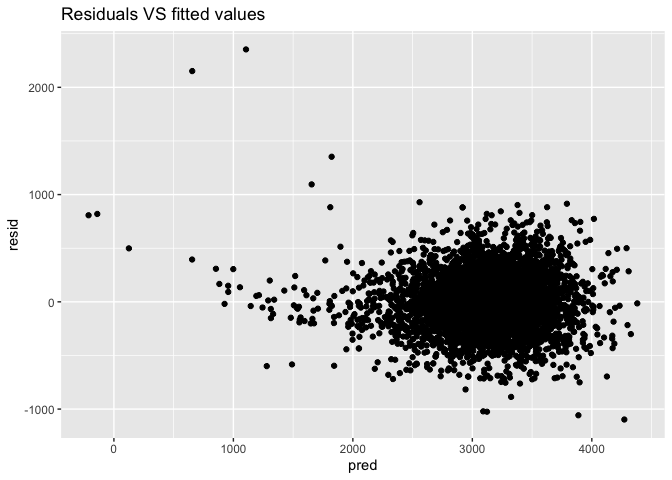
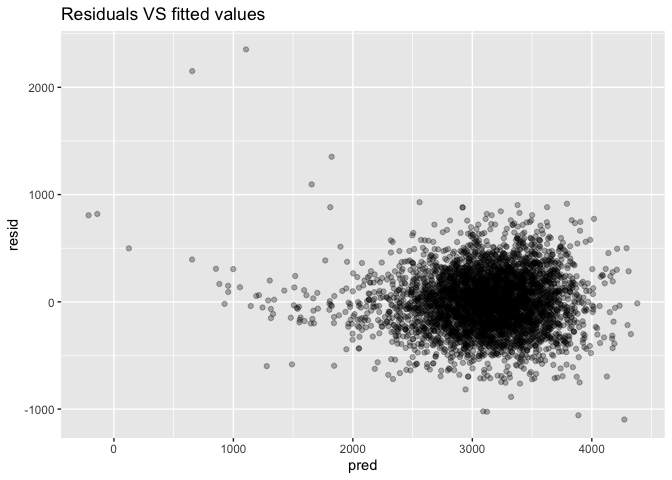
Changed alpha of scatter plot.

diff --git a/p8105_hw6_qz2392.md b/p8105_hw6_qz2392.md
@@ -215,7 +215,7 @@ birthweight %>%
   add_predictions(reg) %>% 
   add_residuals(reg) %>% 
   ggplot(aes(x = pred, y = resid)) +
-  geom_point() +
+  geom_point(alpha = .3) +
   labs(
     titles = "Residuals VS fitted values"
   )
@@ -223,7 +223,8 @@ birthweight %>%
 
 ![](p8105_hw6_qz2392_files/figure-gfm/unnamed-chunk-3-1.png)<!-- -->
 
-The plot is centered around 0 with some outliers on the left.
+The plot is centered around 0 with some outliers on the left and
+top-left.
 
 ``` r
 lm(bwt ~ blength + gaweeks, data = birthweight) %>% 
